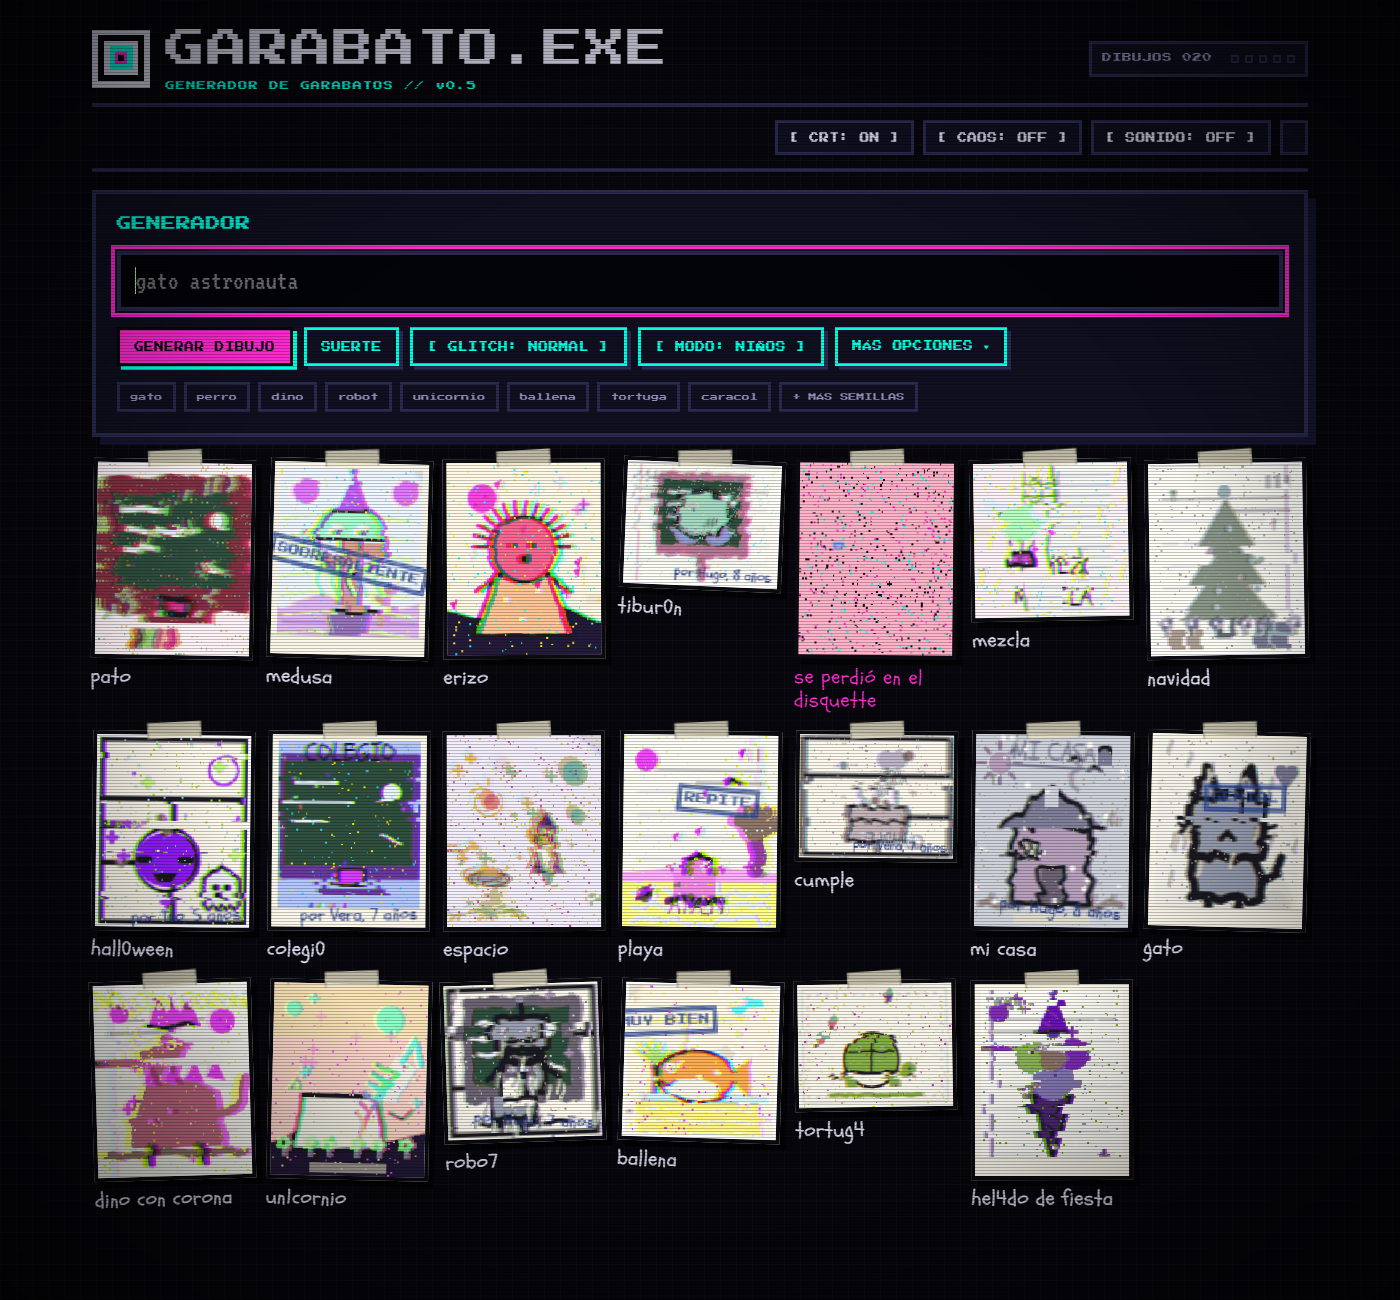
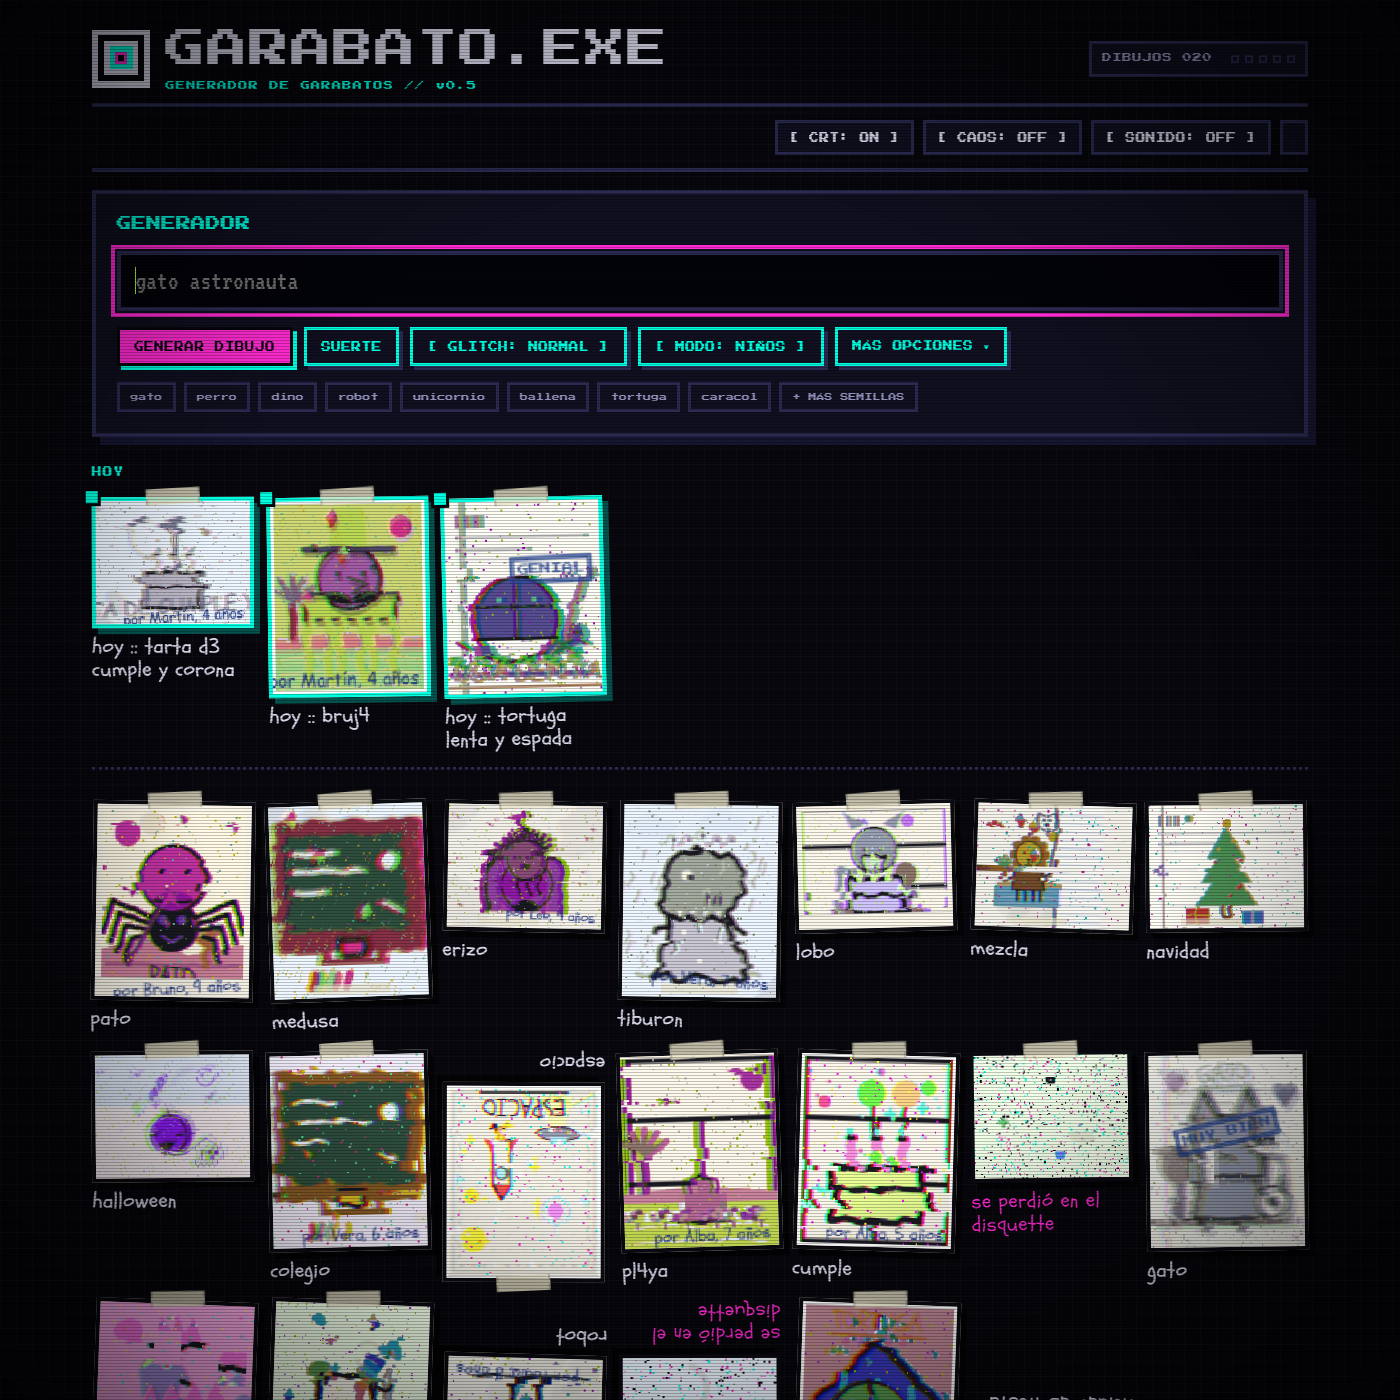
Anade la franja HOY: 2-3 dibujos del dia iguales para todos, derivados de la fecha

diff --git a/js/galeria.js b/js/galeria.js
@@ -3819,6 +3819,79 @@
     actualizarTotales();
   };
 
+  var fechaISO = function () {
+    var hoy = new Date();
+    var mes = ("0" + (hoy.getMonth() + 1)).slice(-2);
+    var dia = ("0" + hoy.getDate()).slice(-2);
+    return hoy.getFullYear() + "-" + mes + "-" + dia;
+  };
+
+  var registrosDia = function () {
+    var semilla = "garabato-global-" + fechaISO();
+    var azar = sorteador(hash(semilla));
+    var cantidad = 2 + Math.floor(azar() * 2);
+    var lista = [];
+    var temporada = temporadaActual();
+    for (var i = 0; i < cantidad; i++) {
+      var sujeto = CATALOGO[Math.floor(azar() * CATALOGO.length)];
+      var frases = [sujeto.titulo];
+      if (azar() < 0.35) {
+        var accesorio = ACCESORIOS[Math.floor(azar() * ACCESORIOS.length)];
+        frases.push("y " + accesorio.claves[0]);
+      }
+      var escenaDia = null;
+      if (temporada && azar() < 0.3) {
+        escenaDia = temporada;
+      }
+      lista.push({
+        p: frases.join(" "),
+        s: semilla + "#" + i,
+        n: 1,
+        m: "n",
+        e: escenaDia
+      });
+    }
+    return lista;
+  };
+
+  var crearTileDia = function (registro) {
+    var med = medidasDe(registro);
+    var resultado = pintarDibujo(registro);
+    var figura = document.createElement("figure");
+    figura.className = "dibujo dia";
+    figura.setAttribute("data-seg", registro.s);
+    figura.title = registro.p + " // dibujo del dia";
+    var lienzo = document.createElement("canvas");
+    lienzo.width = med.w;
+    lienzo.height = med.h;
+    lienzo.setAttribute("aria-label", registro.p);
+    var ctx = lienzo.getContext("2d");
+    ctx.drawImage(resultado.lienzo, 0, 0);
+    figura.appendChild(lienzo);
+    var azarGiro = sorteador(hash(registro.s + "giro"));
+    var giro = (azarGiro() - 0.5) * 5;
+    figura.style.transform = "rotate(" + giro.toFixed(2) + "deg)";
+    var pie = document.createElement("figcaption");
+    pie.textContent = "hoy :: " + corromper(registro.p, sorteador(hash(registro.s + "pie")));
+    figura.appendChild(pie);
+    figura.addEventListener("click", function () {
+      glitch(lienzo, sorteador(hash(registro.s + "clic" + Date.now())), 2);
+      bleepMini();
+    });
+    return figura;
+  };
+
+  var pintarDia = function () {
+    var capa = $("[data-pared-dia]");
+    if (!capa) {
+      return;
+    }
+    capa.textContent = "";
+    registrosDia().forEach(function (registro) {
+      capa.appendChild(crearTileDia(registro));
+    });
+  };
+
   var nuevaSemilla = function (prompt) {
     return prompt + "#" + Math.random().toString(36).slice(2, 10);
   };
@@ -5388,6 +5461,7 @@
   iniciarImagenes();
   pintarSellos();
   pintarTodo();
+  pintarDia();
 
   window.ZETETICA = {
     generar: agregarGeneracion,

diff --git a/css/estilo.css b/css/estilo.css
@@ -2299,3 +2299,35 @@ html.alto-contraste body::after {
 .contador-visitas .sellos { margin-left: 8px; }
 
 .contador-visitas .sellos span { width: 8px; height: 8px; }
+
+.dia-titulo {
+  margin: 1.8rem 0 0.5rem;
+  font-family: var(--pixel);
+  font-size: 0.6rem;
+  letter-spacing: 0.12em;
+  color: var(--neon-2);
+}
+
+.pared-dia {
+  padding-top: 0.6rem;
+  margin-bottom: 0.6rem;
+  border-bottom: 3px dotted var(--linea);
+  padding-bottom: 1rem;
+}
+
+.dibujo.dia canvas {
+  border-color: var(--neon-2);
+  box-shadow: 6px 6px 0 0 rgba(0, 255, 225, 0.3);
+}
+
+.dibujo.dia::after {
+  content: "";
+  position: absolute;
+  top: -6px;
+  left: -6px;
+  width: 12px;
+  height: 12px;
+  background: var(--neon-2);
+  box-shadow: 0 0 0 3px var(--fondo);
+  z-index: 4;
+}

diff --git a/index.html b/index.html
@@ -148,6 +148,9 @@
     </p>
   </section>
 
+  <p class="dia-titulo">HOY</p>
+  <div class="pared pared-dia" data-pared-dia></div>
+
   <div class="pared" data-pared></div>
 
 </main>

diff --git a/README.md b/README.md
@@ -45,6 +45,7 @@ GARABATO.EXE es un experimento de arte generativo y net.art. Los dibujos no se s
 - **Modo mezcla**: dos estilos conviviendo en la misma hoja, mitad crayón y mitad boli.
 - **Escenas temáticas**: cumpleaños, playa, espacio, colegio, halloween y navidad, con varias piezas por escena.
 - **Temporada automática**: algunos dibujos salen con motivos de la estación según la fecha (35% de probabilidad).
+- **El dibujo del día**: cada fecha deriva 2-3 dibujos propios; todos los visitantes de ese día ven los mismos, sin servidor.
 - **18 accesorios**, 14 fondos, 6 climas, 4 marcos, 6 tintes × 5 modos de color, espejo horizontal, rótulo manuscrito con letra escolar, firmas («por Lucía, 7 años») y sellos de profesor.
 - **Corrupción de escáner roto**: datamosh, canales RGB desplazados, pixel sort, bloques permutados y ruido de píxeles.
 - **Linaje**: mutar un dibujo engendra variantes con generación (`g1`, `g2`…) y padre registrado.
